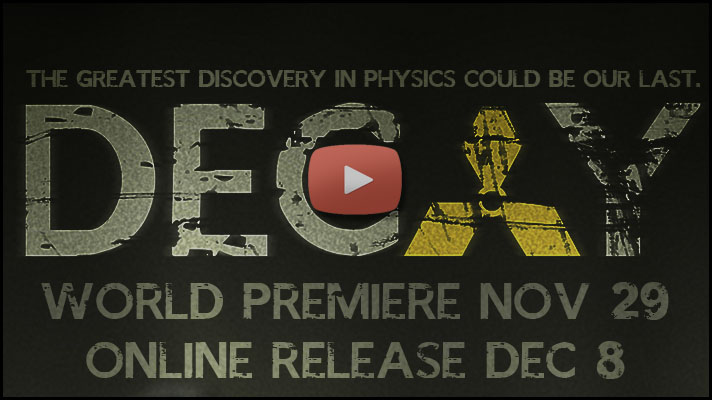
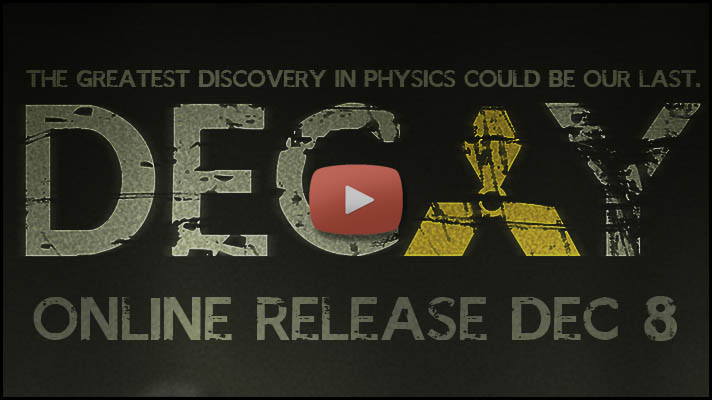
Added changes post-premiere

diff --git a/decay/templates/index.html b/decay/templates/index.html
@@ -86,7 +86,6 @@ function fadeInOut(obj, startValue, endValue) {
 </div>
 {% if SOCIAL %}
 <section id="links" class="body">
-<p><h1 style="font-size: 3.2em;">PREMIERE: EXTRA TICKETS! <a href="http://www.eventbrite.co.uk/event/4867995305?ref=ebtn" target="_blank" style="display:inline;"><img src="http://www.eventbrite.co.uk/custombutton?eid=4867995305" alt="Eventbrite - DECAY World Premiere" /></a></h1></p>
 <span id="Facebook"><a href="http://www.facebook.com/decayfilm"></a></span>
 <span id="Like-Button" style="margin-right: 44px;"><div class="fb-like" data-href="http://www.facebook.com/decayfilm" data-send="false" data-layout="box_count" data-width="90" data-show-faces="false"></div></span>
 <span id="Twitter"><a href="http://www.twitter.com/decayfilm"></a></span>
@@ -100,7 +99,7 @@ function fadeInOut(obj, startValue, endValue) {
 <div id="{{ category.name.lower() }}" class="{{ category.name.lower() }}">
 <h2><a href="{{ category.url }}">{{ category.name }}</a></h2>
 <hr />
-{% for article in cat_articles[:3] %}
+{% for article in cat_articles[:4] %}
     <article>
         {% if not loop.first %}<hr />{% endif %}
         <h3 class="summary-title"><a href="{{ SITEURL }}{{ article.url }}">{{ article.title }}</a></h3>

diff --git a/decay/static/css/main.css b/decay/static/css/main.css
@@ -145,6 +145,10 @@ img.left, figure.left {float: left; margin: 0 2em 2em 0;}
 .credit { display: inline-block; width: 180px; text-align:left; }
 .name { vertical-align: top; }
 
+.tab-author { display: inline-block; width: 180px; text-align:left; }
+.tab-license { display: inline-block; width: 180px; text-align:left; vertical-align: top }
+.tab-type { vertical-align: top; }
+
 .fixwidth { display: inline-block; width: 180px; text-align:left; }
 
 
@@ -508,7 +512,7 @@ credits {
     width: 100%;
     height: 245px;
 }
-#feeds div li {float: left; margin: 0 20px 0 0; width: 185px;}
+#feeds div li {float: left; margin: 0 20px 0 0;} /*width: 185px;}*/
 #feeds div a {text-decoration: none;}
 #feeds .news {float: left;}
 #feeds .media {float: right;}

diff --git a/decay/templates/base.html b/decay/templates/base.html
@@ -102,11 +102,6 @@
         {% block content %}
         {% endblock %}
         <section id="extras" class="body">
-
-<div style="width:100%; text-align:left;" id="ticket-info"><iframe  src="http://www.eventbrite.co.uk/tickets-external?eid=4867995305&ref=etckt&v=2" frameborder="0" height="214" width="100%" vspace="0" hspace="0" marginheight="5" marginwidth="5" scrolling="auto" allowtransparency="true"></iframe>
-<div><p><a href="http://www.eventbrite.co.uk/event/4867995305?ref=ebtn" style="display: inline; width: auto;">Event details</a></p></div>
-</div>
-
 	{% include 'credits.html' %}
 	{% include 'copyright.html' %}
         </section><!-- /#extras -->
